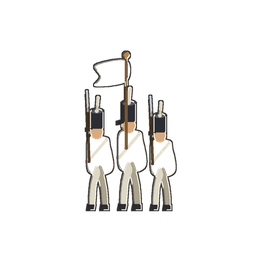
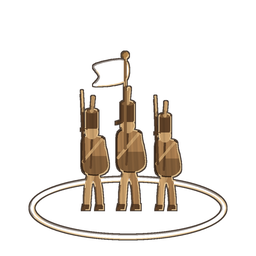
feat(UI): wood war-table pieces + visible war-score bars
Pieces:
- Carved-wood re-art in tools/gen_war_table_pieces.py: walnut/oak tone-only
  shading + procedural grain + warm carved relief (was the "gamy" tin-flat
  toy-soldier look). Faction colour moved OFF the loud coat onto a painted
  base-rim band + flag/shabraque/guidon, so war_table_piece.gd still tints
  only the coat layer. 18 sprites regenerated (shadow layer unchanged).
- Shrink WAR_PIECE_FRAME_PX 84 -> 64 so standees in neighbouring provinces
  stop overlapping.

War-score bars:
- Root cause of the "invisible bar": bar_frame.png is a ~10%-alpha black
  wash (invisible on the dark panel), and the long collapsed coalition name
  crushed the single-row bar to near-zero width.
- Replaced the frame PNG with a drawn rounded StyleBoxFlat track + a bright
  centre tick + inset fills in war_status_panel.gd and war_detail_popup.gd,
  so an even (0) score reads as a balanced meter.
- HUD war entry restructured to two lines (name/turn over a full-width bar)
  so a long coalition name can no longer crush the bar. War score 0 is
  correct data (fresh Third Coalition war, no battles yet).

Live sign-off pass 1 (July 13, 2026). Boot 0 SCRIPT ERROR; piece asset tests
63 green.

Changed region(s): [[0.0938, 0.1875, 0.9062, 0.9688]]

diff --git a/tools/gen_war_table_pieces.py b/tools/gen_war_table_pieces.py
@@ -44,35 +44,48 @@ W = FRAME * SS
 GY = 210 * SS        # ground line (base-disc centre y)
 CX = 128 * SS        # frame centre x
 
-# ── palette (neutral "tin" channels; coat is faction-tinted elsewhere) ──────
-STEEL       = (196, 202, 210, 255)
-STEEL_DK    = (86, 92, 102, 255)
-BRONZE      = (176, 138, 84, 255)
-BRONZE_DK   = (120, 92, 52, 255)
-WOOD        = (120, 86, 50, 255)
-WOOD_DK     = (78, 54, 30, 255)
-BLACK_GEAR  = (44, 44, 52, 255)
-BLACK_HI    = (92, 92, 104, 255)
-FLESH       = (216, 170, 128, 255)
-FLESH_DK    = (168, 120, 84, 255)
-BREECH      = (222, 216, 200, 255)   # white breeches -> warm off-white
-BREECH_DK   = (170, 162, 142, 255)
-HORSE       = (122, 96, 68, 255)     # bay
-HORSE_DK    = (78, 58, 40, 255)
-HORSE_MANE  = (54, 40, 28, 255)
-SLATE       = (86, 98, 116, 255)     # body-layer coat fallback
-SLATE_DK    = (54, 64, 80, 255)
-RIM         = (245, 240, 228, 235)   # bright pewter rim light
+# ── palette — CARVED WOOD (July 13 rework) ──────────────────────────────────
+# The figure is now one turned/carved wooden object: tone-only differentiation
+# (light oak -> dark walnut) so it reads as wood, NOT a painted tin soldier. The
+# faction colour lives on the base-rim band + flag/shabraque/guidon (the coat
+# tint-mask), never on the figure. The per-part variable names are KEPT from the
+# old tin palette so every drawing call is unchanged — only the values move to
+# wood, and value-contrast between parts is preserved so the carving still reads.
+OAK_HI      = (202, 160, 108, 255)   # lit wood (legs, face, belt, plume, highlights)
+OAK         = (170, 126, 80, 255)    # mid wood (coat mass, horse)
+OAK_DK      = (130, 94, 58, 255)     # shadowed wood
+WALNUT      = (96, 66, 40, 255)      # dark wood (boots, shako, hair, hooves, metal)
+WALNUT_DK   = (64, 44, 26, 255)      # darkest carved accents
 
-# coat mask (multiplied by nation colour): near-white base, darker grooves
+STEEL       = (214, 178, 126, 255)   # "bright" carved wood (bayonet/sabre/hub glint)
+STEEL_DK    = WALNUT
+BRONZE      = (178, 132, 76, 255)    # warm wood (cannon barrel, hilt, finial)
+BRONZE_DK   = WALNUT
+WOOD        = OAK_DK                  # flagpole, musket stock, gun trail beam
+WOOD_DK     = WALNUT
+BLACK_GEAR  = WALNUT                  # boots / shako -> dark carved wood (not black)
+BLACK_HI    = OAK_DK                  # shako top band
+FLESH       = (206, 164, 112, 255)   # face -> light wood
+FLESH_DK    = OAK
+BREECH      = OAK_HI                  # breeches / plume / crossbelt -> lit wood
+BREECH_DK   = OAK
+HORSE       = OAK                     # horse body
+HORSE_DK    = OAK_DK
+HORSE_MANE  = WALNUT
+SLATE       = OAK                     # rider coat fallback
+SLATE_DK    = OAK_DK
+RIM         = (228, 196, 146, 235)   # warm wood rim light (was cool pewter)
+
+# coat mask (multiplied by nation colour): near-white base, darker grooves.
+# Now carries ONLY the faction accents (base-rim band + flag / shabraque / guidon).
 COAT_HI     = (244, 244, 244, 255)
-COAT_MID    = (214, 214, 214, 255)
+COAT_MID    = (210, 210, 210, 255)
 COAT_LO     = (168, 168, 168, 255)
 
-BASE_TOP    = (188, 150, 92, 255)    # ochre ground, lit top face
-BASE_MID    = (150, 116, 66, 255)
-BASE_RIM    = (104, 78, 42, 255)
-BASE_HI     = (222, 196, 146, 235)
+BASE_TOP    = (168, 126, 78, 255)    # turned-wood base, lit top face
+BASE_MID    = (128, 92, 54, 255)
+BASE_RIM    = (86, 60, 34, 255)
+BASE_HI     = (208, 174, 122, 235)
 
 SHADOW_COL  = (18, 14, 10)
 
@@ -174,23 +187,51 @@ def make_shadow(width_frac):
     return lay.filter(ImageFilter.GaussianBlur(8 * SS))
 
 
-# ── coat helper: paint the same silhouette into body(slate) + coat(mask) ─────
-def paint_coat(body, coat, pts, groove=None):
-    """Paint the coat mass into the coat mask only (faction-tinted downstream).
-
-    The body layer is left transparent here so the tinted coat shows through;
-    the relief pass bakes the coat's lit/shaded EDGE lines into the body on top.
-    """
-    smooth_fill(coat, pts, COAT_HI)
+# ── coat / faction helpers ──────────────────────────────────────────────────
+def paint_wood_coat(body, pts, groove=None):
+    """Paint the coat mass into the BODY as carved wood (mid oak + a lower-half
+    shade + walnut grooves). The figure is now wood, not a faction-tinted mass —
+    faction colour rides the base-rim + flag/shabraque accents instead."""
+    smooth_fill(body, pts, OAK)
     dense = catmull(pts)
     ys = [p[1] for p in dense]
     ymid = (min(ys) + max(ys)) * 0.5
     lower = [p for p in dense if p[1] > ymid]          # bottom-half volume shade
     if len(lower) > 2:
+        ImageDraw.Draw(body).polygon(lower, fill=OAK_DK)
+    # carved-edge contour: defines the coat as a turned mass AND separates
+    # overlapping infantry figures (which share one wood tone) from each other.
+    stroke(body, pts, WALNUT_DK, 1.4 * SS, closed=True, smooth=True)
+    if groove:
+        for g in groove:
+            stroke(body, g, WALNUT, 2.0 * SS, smooth=True)
+
+
+def faction_fill(coat, pts, groove=None):
+    """Paint a faction accent (flag / shabraque / guidon) into the coat tint-mask
+    — near-white so Godot `modulate` multiplies it to the nation hue."""
+    smooth_fill(coat, pts, COAT_HI)
+    dense = catmull(pts)
+    ys = [p[1] for p in dense]
+    ymid = (min(ys) + max(ys)) * 0.5
+    lower = [p for p in dense if p[1] > ymid]
+    if len(lower) > 2:
         ImageDraw.Draw(coat).polygon(lower, fill=COAT_MID)
     if groove:
         for g in groove:
-            stroke(coat, g, COAT_LO, 2.0 * SS, smooth=True)
+            stroke(coat, g, COAT_LO, 1.6 * SS, smooth=True)
+
+
+def faction_base_rim(coat, width_frac):
+    """A painted rim band around the base's top-face edge — the tell of a painted
+    wooden wargame base, and the widest, most legible faction signal at map zoom.
+    Drawn into the coat tint-mask so it takes the nation hue."""
+    rx = width_frac * W * 0.5
+    ry = rx * 0.34
+    cy = GY - 2 * SS                                    # matches make_base lit top face
+    ImageDraw.Draw(coat).ellipse(
+        [CX - rx * 0.96, cy - ry * 0.9, CX + rx * 0.96, cy + ry * 0.9],
+        outline=COAT_HI, width=int(5 * SS))
 
 
 # =============================================================================
@@ -230,8 +271,8 @@ def foot_soldier(body, coat, cx, s=1.0, bearer=False):
         (cx - 13 * u * s, gy - 40 * u * s),  # coat-tail flare (back)
         (cx - 10 * u * s, gy - 58 * u * s),
     ]
-    paint_coat(body, coat, coat_pts,
-               groove=[[(cx + 2 * u * s, gy - 64 * u * s), (cx + 3 * u * s, gy - 38 * u * s)]])
+    paint_wood_coat(body, coat_pts,
+                    groove=[[(cx + 2 * u * s, gy - 64 * u * s), (cx + 3 * u * s, gy - 38 * u * s)]])
     # cross-belt (white) over coat
     stroke(body, [(cx - 7 * u * s, gy - 64 * u * s), (cx + 10 * u * s, gy - 44 * u * s)],
            BREECH, 2.6 * u * s)
@@ -275,9 +316,10 @@ def build_infantry():
     body, coat = new_layer(), new_layer()
     # back-to-front so overlaps read (painter's order); figures sized up ~12%
     # from U4 so the rank fills the frame and survives the 64px map read
-    foot_soldier(body, coat, CX - 34 * SS, s=1.05)
-    foot_soldier(body, coat, CX + 29 * SS, s=1.10)
-    foot_soldier(body, coat, CX - 3 * SS, s=1.19, bearer=True)   # centre bearer, tallest
+    foot_soldier(body, coat, CX - 39 * SS, s=1.05)
+    foot_soldier(body, coat, CX + 34 * SS, s=1.10)
+    foot_soldier(body, coat, CX - 2 * SS, s=1.19, bearer=True)   # centre bearer, tallest
+    faction_base_rim(coat, 0.80)                                  # painted base band
     return {"base": make_base(0.80), "shadow": make_shadow(0.80),
             "body": body, "coat": coat}
 
@@ -368,7 +410,7 @@ def build_cavalry():
     ry_ = gy - 62 * u                 # rider hip / saddle point
     shab = [(rx_ - 13 * u, ry_ + 1 * u), (rx_ + 13 * u, ry_ + 1 * u),
             (rx_ + 15 * u, ry_ + 16 * u), (rx_ - 16 * u, ry_ + 16 * u)]
-    paint_coat(body, coat, shab)
+    faction_fill(coat, shab)          # saddle-cloth carries the nation hue
 
     # --- rider (bigger than U4 so he owns the top half) ---
     # near leg over the shabraque
@@ -379,7 +421,7 @@ def build_cavalry():
     torso_r = [(rx_ - 10 * u, ry_ + 2 * u), (rx_ + 10 * u, ry_ + 2 * u),
                (rx_ + 12 * u, ry_ - 16 * u), (rx_ + 6 * u, ry_ - 26 * u),
                (rx_ - 8 * u, ry_ - 24 * u), (rx_ - 14 * u, ry_ - 10 * u)]
-    paint_coat(body, coat, torso_r)
+    paint_wood_coat(body, torso_r)
     stroke(body, [(rx_ - 8 * u, ry_ - 22 * u), (rx_ + 10 * u, ry_ - 4 * u)], BREECH, 2.6 * u)  # crossbelt
     # reins: hand to the muzzle
     stroke(body, [(rx_ + 11 * u, ry_ - 6 * u), (cx + 58 * u, gy - 73 * u)], BLACK_GEAR, 1.5 * u)
@@ -396,6 +438,7 @@ def build_cavalry():
     stroke(body, [hand, (rx_ + 33 * u, ry_ - 62 * u), (rx_ + 40 * u, ry_ - 78 * u)],
            STEEL, 2.8 * u, smooth=True)                                   # curved blade
     disc(body, hand[0], hand[1], 2.6 * u, 2.6 * u, BRONZE)                # hilt
+    faction_base_rim(coat, 0.58)                                          # painted base band
     return {"base": make_base(0.58), "shadow": make_shadow(0.66),
             "body": body, "coat": coat}
 
@@ -455,7 +498,7 @@ def build_artillery():
         torso = [(gx - 7 * u, gy - 51 * u), (gx + 7 * u, gy - 49 * u),
                  (gx + 8 * u, gy - 36 * u), (gx + 4 * u, gy - 28 * u),
                  (gx - 6 * u, gy - 29 * u), (gx - 8 * u, gy - 38 * u)]
-        paint_coat(body, coat, torso)
+        paint_wood_coat(body, torso)
         stroke(body, [(gx - 5 * u, gy - 49 * u), (gx + 7 * u, gy - 37 * u)],
                BREECH, 2.2 * u)                                                  # crossbelt
         disc(body, gx + 1 * u, gy - 55 * u, 5 * u, 5.5 * u, FLESH)               # face
@@ -468,11 +511,38 @@ def build_artillery():
         disc(body, gx + 34 * u, gy - 60 * u, 2.2 * u, 2.2 * u, STEEL)
 
     gunner(cx - 36 * u)
+    # faction guidon on a short staff planted behind the gun (the arm's colour hit)
+    gpx = cx - 54 * u
+    line(body, (gpx, gy - 2 * u), (gpx, gy - 76 * u), WOOD, 2.2 * u)      # staff
+    disc(body, gpx, gy - 78 * u, 2.2 * u, 2.2 * u, BRONZE)               # finial
+    faction_fill(coat, [(gpx, gy - 74 * u), (gpx + 22 * u, gy - 70 * u),
+                        (gpx + 17 * u, gy - 62 * u), (gpx + 22 * u, gy - 54 * u),
+                        (gpx, gy - 58 * u)])
+    faction_base_rim(coat, 0.86)                                         # painted base band
     return {"base": make_base(0.86), "shadow": make_shadow(0.86),
             "body": body, "coat": coat}
 
 
-# ── relief pass: bake engraved-tin lighting from the figure silhouette ──────
+# ── wood grain: multiply near-vertical timber grain into the figure ─────────
+def add_grain(body):
+    """Multiply subtle near-vertical wood grain into the figure so it reads as
+    carved timber. RGB-only (alpha untouched -> relief geometry unaffected)."""
+    ba = np.array(body).astype(np.float32)
+    alpha = ba[:, :, 3] > 20
+    xs = np.arange(W, dtype=np.float32)[None, :]
+    ys = np.arange(W, dtype=np.float32)[:, None]
+    warp = np.sin(ys * 0.010) * 5.0                  # gentle waver so grain isn't ruled
+    g = (np.sin((xs + warp) * 0.22)
+         + 0.55 * np.sin((xs + warp) * 0.51 + 1.7)
+         + 0.30 * np.sin(xs * 0.09 + ys * 0.006))
+    g = (g - g.min()) / (g.max() - g.min())          # 0..1
+    factor = (0.88 + 0.17 * g)[:, :, None]           # 0.88 .. 1.05 tonal ripple
+    rgb = np.clip(ba[:, :, :3] * factor, 0, 255)
+    ba[:, :, :3] = np.where(alpha[:, :, None], rgb, ba[:, :, :3])
+    return Image.fromarray(ba.astype(np.uint8), "RGBA")
+
+
+# ── relief pass: bake carved-wood lighting from the figure silhouette ───────
 def add_relief(body, coat):
     """Return body with a baked rim light / core shadow / dark contour so the
     flat reads as engraved pewter. Light from upper-right (fronts of the
@@ -499,9 +569,9 @@ def add_relief(body, coat):
     drk = edge & shift(union, +K, -K)     # down-left-facing edge -> shade
 
     fx = np.zeros((W, W, 4), dtype=np.uint8)
-    fx[outer] = (22, 18, 14, 210)         # crisp dark contour (separation)
-    fx[drk] = (30, 24, 18, 120)           # core shadow (semi -> darkens)
-    fx[lit] = RIM                         # bright pewter rim
+    fx[outer] = (38, 24, 14, 205)         # warm dark contour (separation)
+    fx[drk] = (44, 28, 16, 120)           # warm core shadow (semi -> darkens)
+    fx[lit] = RIM                         # warm wood rim light
     fx_img = Image.fromarray(fx, "RGBA")
     return Image.alpha_composite(body, fx_img)
 
@@ -549,6 +619,7 @@ def build_all():
     out = {}
     for arm, fn in ARMS.items():
         raw = fn()
+        raw["body"] = add_grain(raw["body"])
         raw["body"] = add_relief(raw["body"], raw["coat"])
         R = {k: downscale(v) for k, v in raw.items()}
         Lf = {k: v.transpose(Image.FLIP_LEFT_RIGHT) for k, v in R.items()}

diff --git a/docs/STATUS.md b/docs/STATUS.md
@@ -19,6 +19,7 @@
 - **Boot-smoke (standing rule):** headless `--import` + main-scene run **0 `SCRIPT ERROR`** (a temp `_piece_probe` scene confirmed 3 pieces instantiate keyed to `[infantry, cavalry, artillery]` + the move/retire path, then removed). Ruff clean.
 - **Tests:** `tests/test_ui_visual_foundation.py` +3 (piece class shape / renderer wiring / bitmap-mode gate); `tests/test_fog_of_war.py::TestMarshalArmField` +4. Full suite **13,059 passed / 3 skipped**.
 - **⚠ Open (visual sign-off, matches the U2/U3 gates):** boot-clean but not screenshot-verified live. Eyeball on the running map: piece size (`WAR_PIECE_FRAME_PX=84`) + clustering (`WAR_PIECE_SLOT_SPACING=30`, standees spread only in x so co-located ones overlap); dark-nation (Prussia) tint after the floor; cavalry/artillery faction read; the ~0.45s move-tween feel; and the two bar changes. Each is a one-line tune. **The sweep is U1–U5 COMPLETE.**
+- **✅ Live sign-off pass 1 (July 13, 2026) — user feedback addressed:** (1) **pieces too big / overlapping across provinces** → `WAR_PIECE_FRAME_PX` 84→**64**; (2) **pieces read "gamy" (plastic army men)** → re-authored `tools/gen_war_table_pieces.py` to a **carved-wood** aesthetic (walnut/oak tone-only shading + procedural grain + warm carved-relief; faction colour moved OFF the coat onto a painted **base-rim band** + flag/shabraque/guidon, so `war_table_piece.gd` still tints only the `coat` layer) — 18 sprites regenerated, `test_ui_visual_foundation.py` 63 green; (3) **war-score bar invisible** → root cause was `bar_frame.png` being a ~10%-alpha black wash + the long collapsed coalition name crushing the single-row bar. Fixed in `war_status_panel.gd` (two-line entry: name/turn over a full-width bar) + both it and `war_detail_popup.gd` (invisible frame PNG → a drawn rounded `StyleBoxFlat` track + bright centre tick + inset fills, so an even 0 score reads as a balanced meter). War score 0 is correct data (fresh Third Coalition war, no battles). Boot 0 `SCRIPT ERROR`. **Still open:** co-located same-province spacing (`WAR_PIECE_SLOT_SPACING=30`) minor overlap; optional force-balance war-score bar; Bern-tooltip `Income/Supply: 0` vs `Unknown` under Partial intel.
 
 ### ✅ UI VISUAL FOUNDATION SWEEP — Session U4 ("War-Table Pieces ART") LANDED July 12, 2026 — `docs/UI_VISUAL_FOUNDATION_SPEC.md` §7 + §8
 
